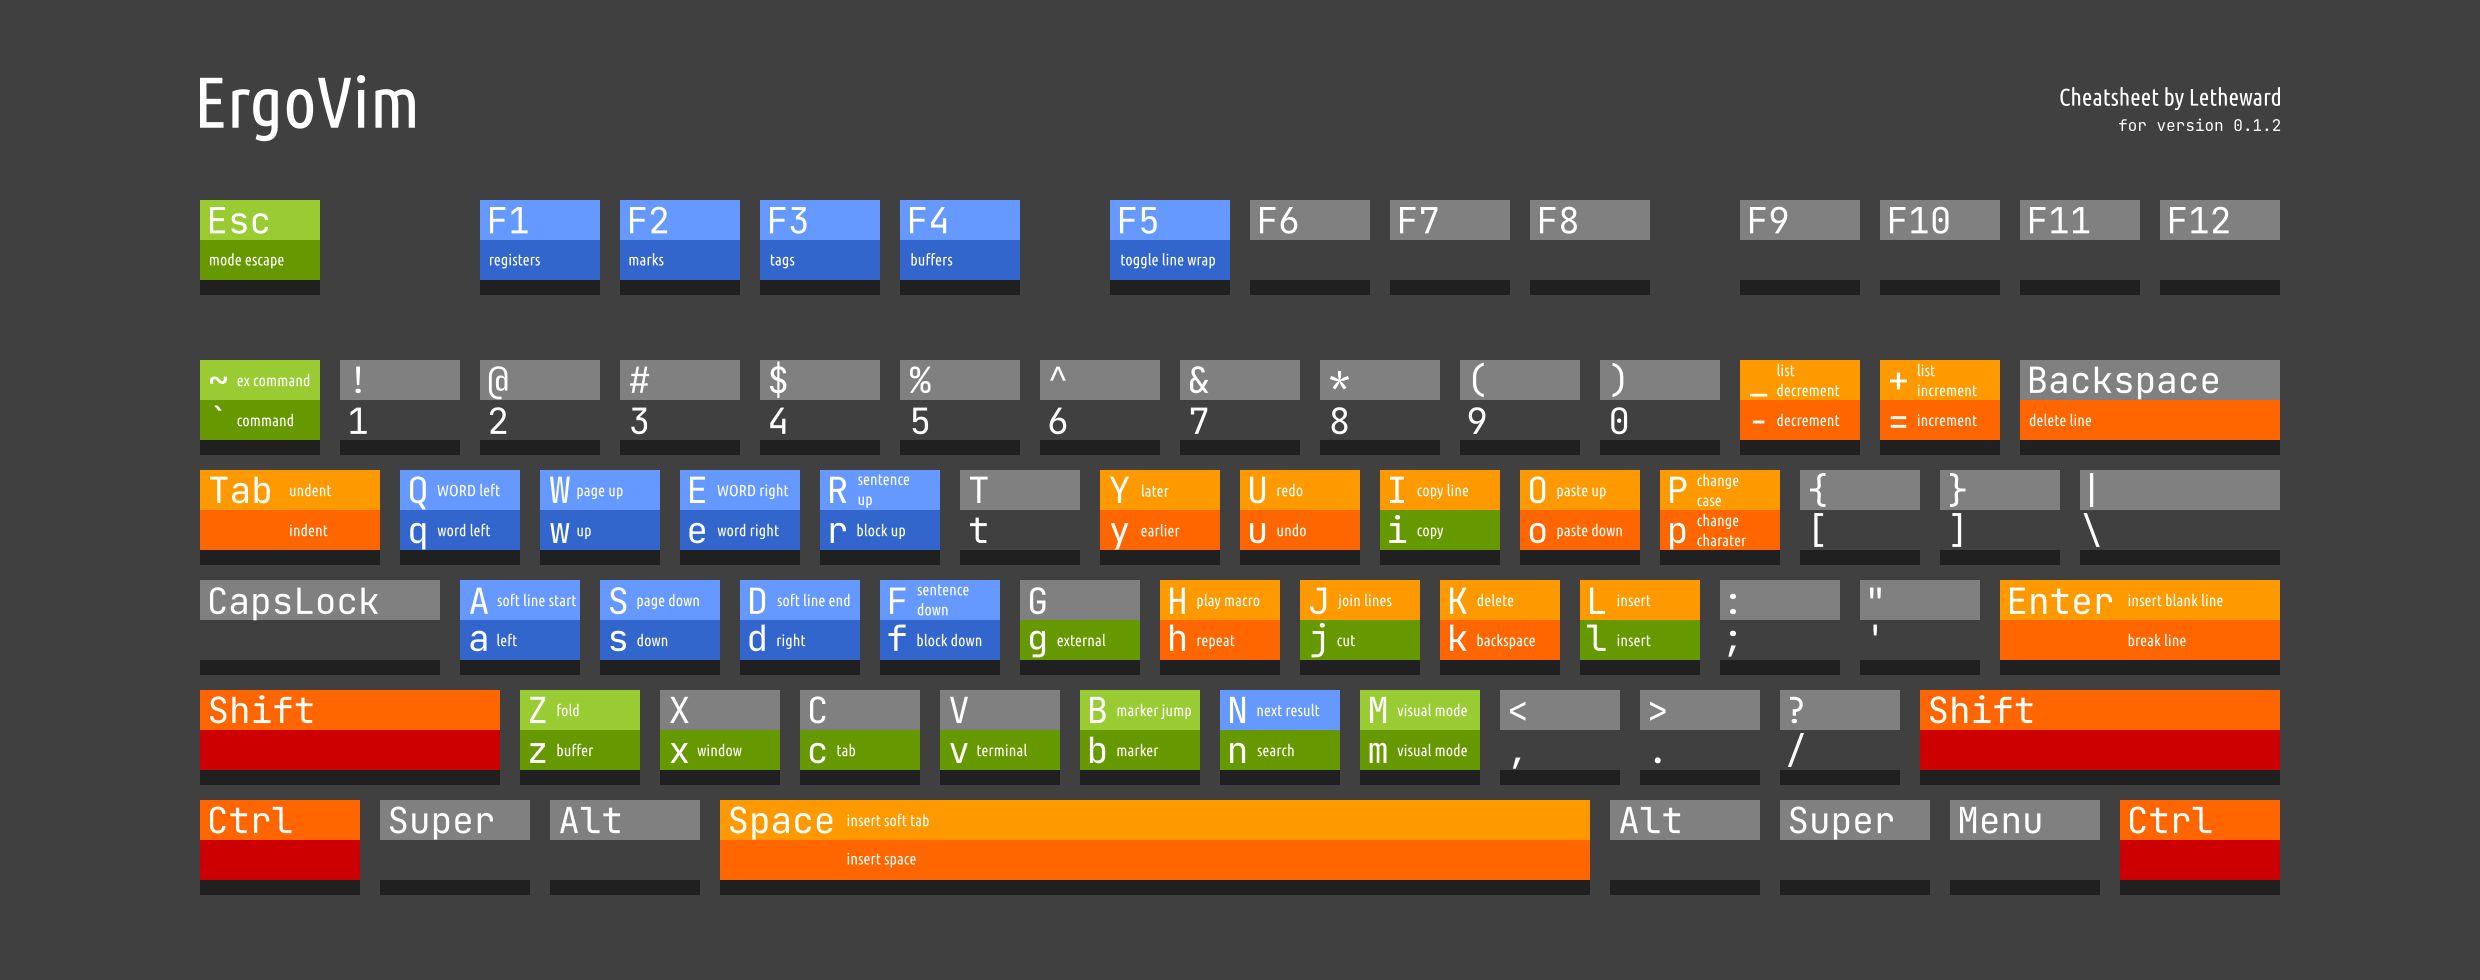
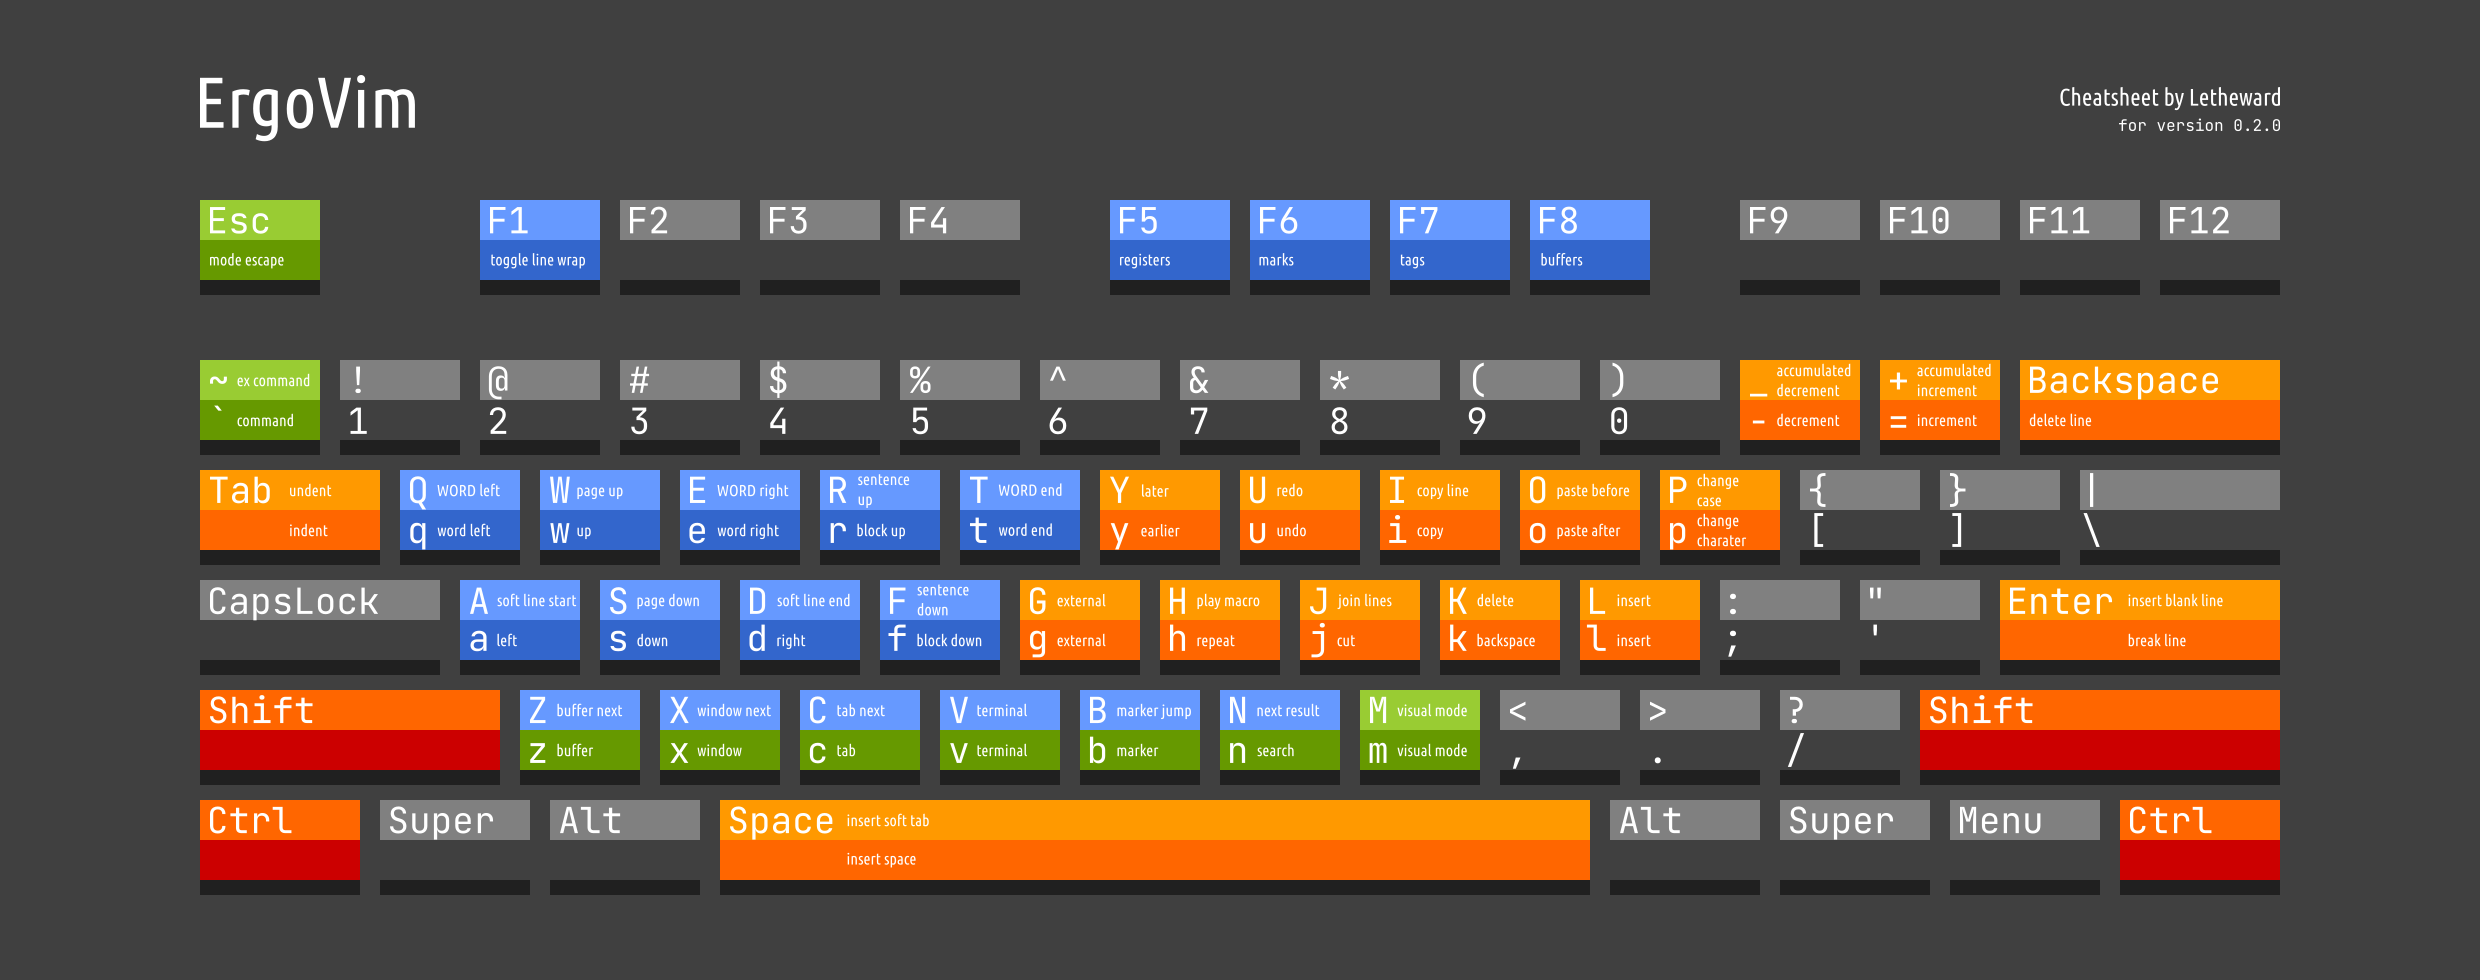
many improvements

diff --git a/README.md b/README.md
@@ -4,9 +4,9 @@ ErgoVim is a ergonomic and efficient keymapping for Vim.
 
 ## How to Install
 
-You can get it by:
-- Download from [release](https://github.com/Letheward/ErgoVim/releases) 
+You can get it by either:
 - Clone this repository 
+- Download from [release](https://github.com/Letheward/ErgoVim/releases) 
 - Just copy the content in the `vimrc` file
 
 Read the `vimrc` file before installing.
@@ -32,7 +32,7 @@ If you are new to Vim and don't have any setup, just throw the `vimrc` file to y
     ~~~
     (you may need to hit `Enter` to scroll down to see all of it)
 
-    Choose the location of `user vimrc file` or `2nd user vimrc file` to install. (you may need to create a folder and/or rename `vimrc`, base on where you want)
+    Choose the location of `user vimrc file` or `2nd user vimrc file` to install. (you may need to create a folder and/or rename `vimrc` as the `:version` output suggested, base on where you want)
 
     If you are using MinGW64, you can directly replace `system vimrc file`. It's in your MinGW64 distro's `/etc/`. 
 
@@ -95,7 +95,7 @@ Direction Keys:
 
 Action Keys:
 
-- (same as leader, like `jj`, `ii`, `xx`) do the basic stuff
+- (same key twice or capitalized, like `jj`, `ii`, `X`) do the most common action
 - `l` enter, confirm, do things
 - `k` cancel, delete, exit, close
 - `j` change, cut, join
@@ -105,13 +105,13 @@ Action Keys:
 Examples:
 
 - `xna`: open a *window* to edit *new file*, to the *left*.  
-- `ZL`: *entering* the fold.  
 - `nk`: *cancel* search highlight.   
 - `ni`: *search* using the word under *current* cursor location. 
 
 ## Known Issues
 
 - `CapsLock` will change key commands to uppercase key commands.
+- System clipboard interfacing on linux doesn't work
 - Some commands will behave like the old way if it's hold rather than tapped.
 - Search back `n` will perform once more if hold, wait for it or hit `N` to cancel.
 - Default small version Vim miss many features, like text object, auto-complete, etc. Using key sequences for those features may cause unwanted behaviors.
